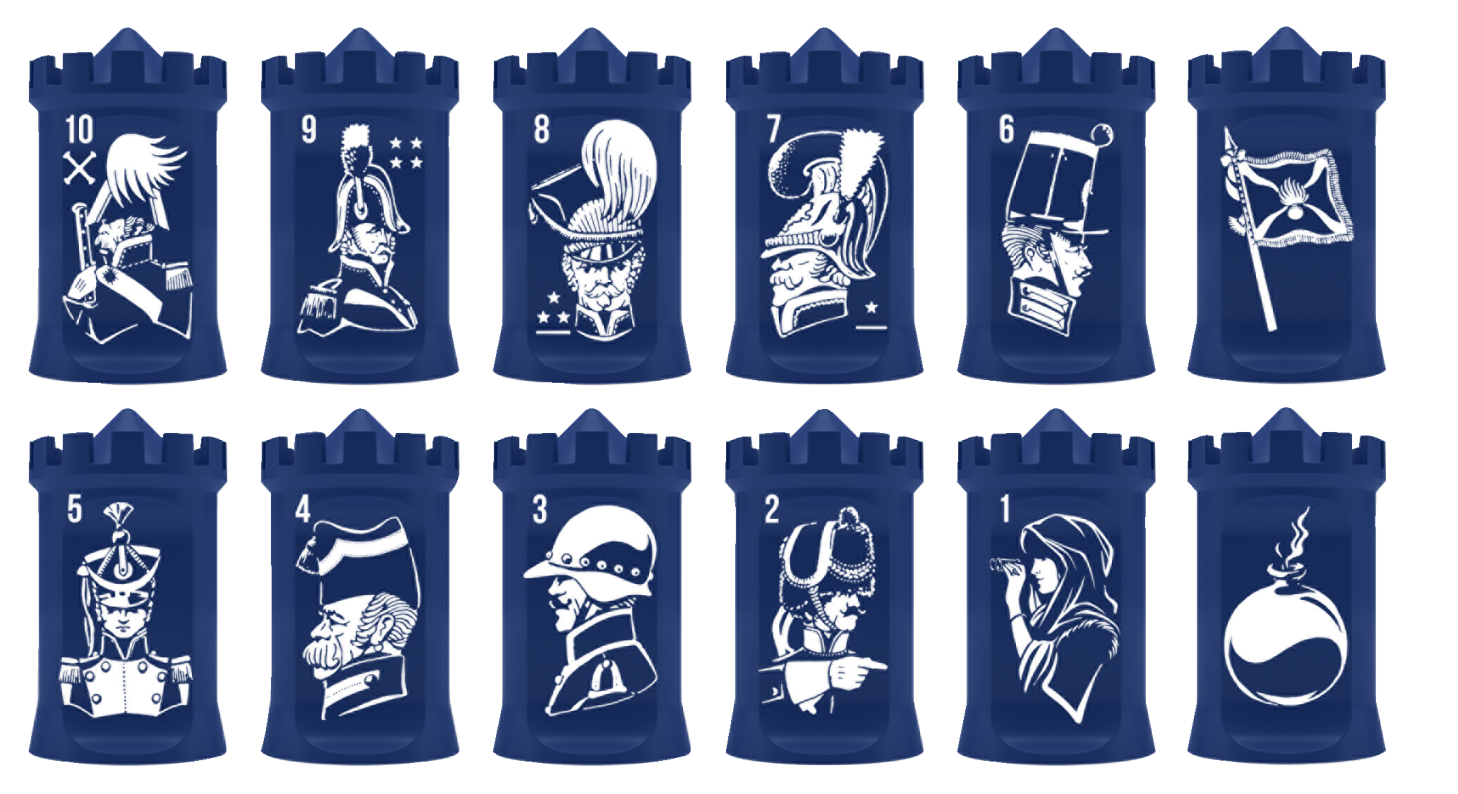
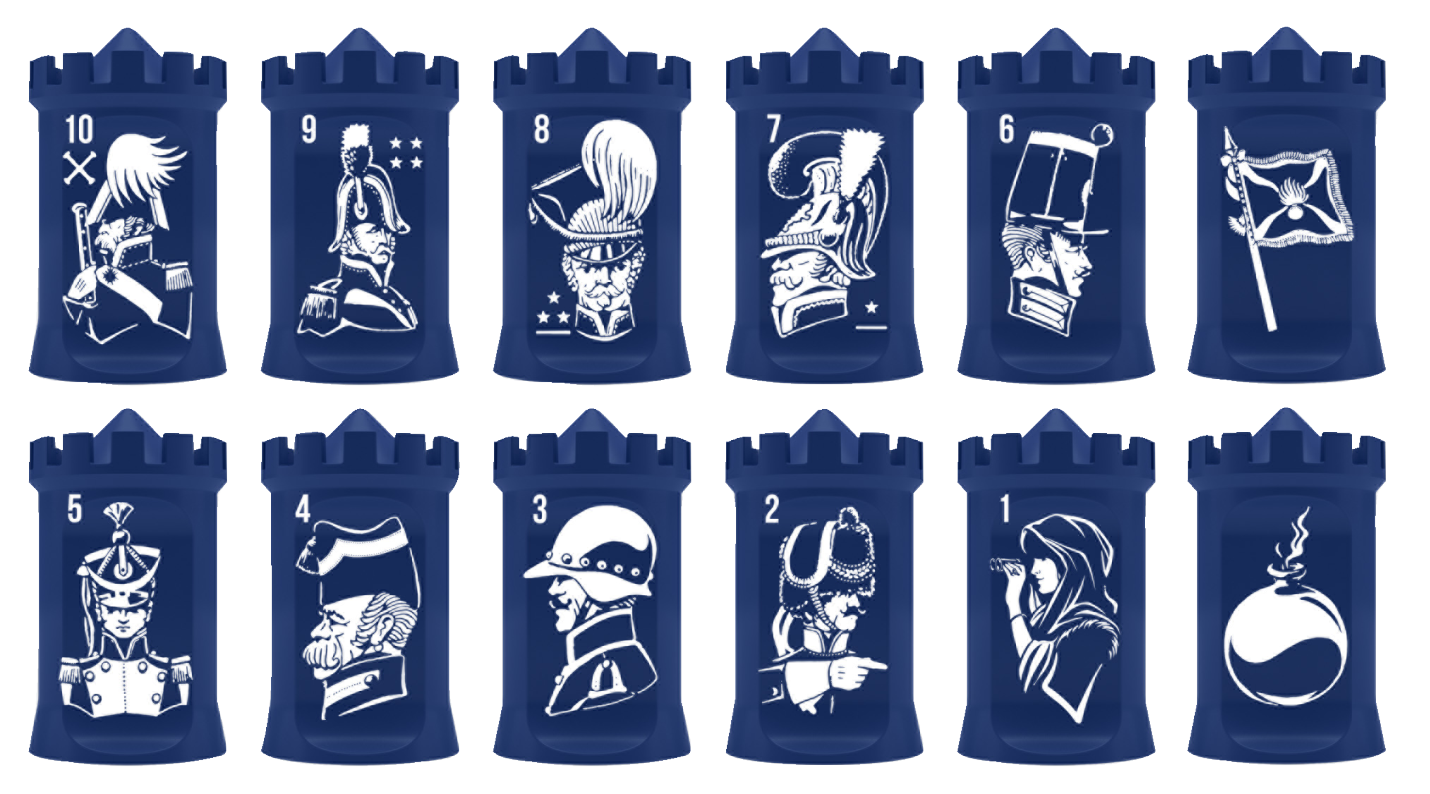
Fixed blue piece img to be the right size, made list of coordinates for textures to be made with

diff --git a/graphics.py b/graphics.py
@@ -11,6 +11,15 @@ SCREEN_WIDTH = 1920
 SCREEN_HEIGHT = 1080
 SCREEN_TITLE = "Stratego"
 
+TEXTURE_IMAGE_WIDTH = 1430   # the x width of the image of the pieces in pixels
+TEXTURE_IMAGE_HEIGHT = 794   # the y height of the image of the pieces in pixels
+PIECE_WIDTH = int(TEXTURE_IMAGE_WIDTH / 6)
+PIECE_HEIGHT = int(TEXTURE_IMAGE_HEIGHT / 2)
+
+# index map for pieces and their textures
+# Pieces:        | 10 | 9 | 8 | 7| 6| flag | 5 | 4 | 3 | 2 | 1  | bomb |
+# Texture index: | 0  | 1 | 2 | 3| 4| 5    | 6 | 7 | 8 | 9 | 10 | 11   |
+
 
 class MyGame(arcade.Window):
     """
@@ -29,8 +38,31 @@ class MyGame(arcade.Window):
         """
         Set up the game variables. Call to re-start the game.
         """
+        # Create the list of coordinates to make the textures of the pieces
+        # format is x, y, width, height. 0,0 is the top left of the image, positive x is right, positive y is down
+        texture_map_cords = []
+        for ii in range(2):
+            for jj in range(6):
+                texture_map_cords.append([PIECE_WIDTH * jj, PIECE_HEIGHT * ii, PIECE_WIDTH, PIECE_HEIGHT])
+
         # Create sprites and sprite lists here
-        pass
+        blue_textures = arcade.load_textures(
+            "img/blue_pieces.png",     # filename
+            texture_map_cords,
+            False,
+            False,
+            "simple",
+            4.5
+        )
+
+        red_textures = arcade.load_textures(
+            "img/red_pieces.png",
+            texture_map_cords,
+            False,
+            False,
+            "simple",
+            4.5
+        )
 
     def on_draw(self):
         """
